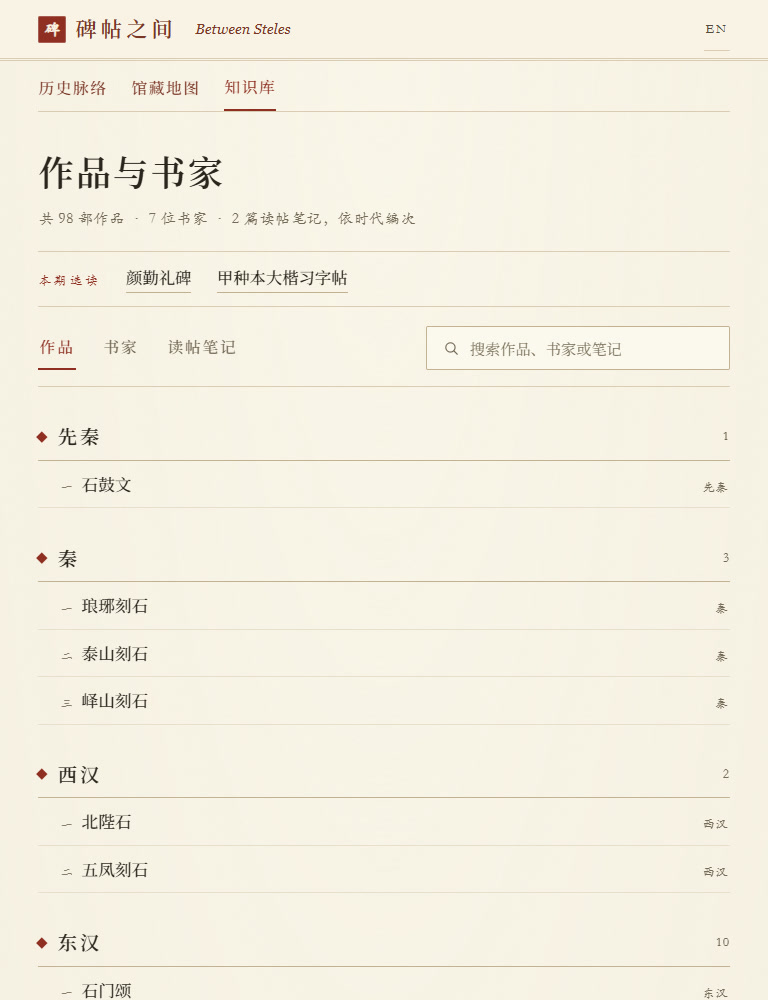
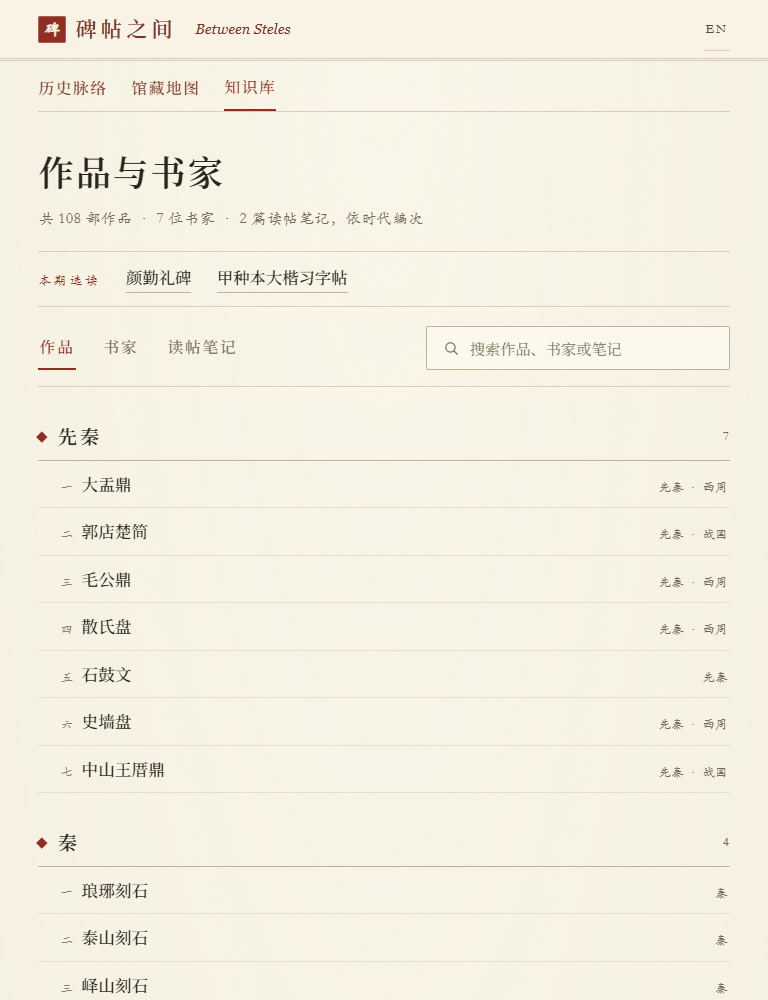
docs: refresh task 044 evidence after merging main

diff --git a/docs/delivery-044.md b/docs/delivery-044.md
@@ -17,7 +17,8 @@
 
 - Masthead height 61.375 px and section nav height 50.531 px on all three entries at 1440; both start at the same y.
 - Active labels: 知识库, 历史脉络, 馆藏地图.
-- A timeline card at 1440: 187.19 × 86.39 px, text `石鼓文`.
+- The timeline now renders 108 cards; the first is 大盂鼎 after the bronze and slip records merged. The library lede reports 108 works.
+- A timeline card at 1440: 187.19 × 86.39 px, text `石鼓文` before the merge and the same slip size for `大盂鼎` after it.
 - Two river frames 1.2 s apart differ; with reduced motion the same two frames are byte-identical.
 - No page errors or horizontal overflow at 1440 / 768 / 390; English labels and cards render with the shared nav.
 
@@ -27,7 +28,7 @@
 | --- | --- |
 | `npm.cmd run typecheck` | Passed |
 | `npx.cmd vitest run tests/atlas-timeline.test.tsx tests/library.test.tsx` | Passed: 2 files / 11 tests |
-| `npm.cmd run check` | Passed: interface current; data 0 errors / 38 known warnings; 99 catalogue pages current; isolation and reproducibility (518 files); board 43 rows; 18 test files / 156 tests; ZIP 523 files; preview build succeeded |
+| `npm.cmd run check` | Passed after merging task 043: interface current; data 0 errors / 38 known warnings; 109 catalogue pages current; isolation and reproducibility (566 source files); board 44 rows; 18 test files / 156 tests; ZIP 571 files; preview build succeeded. The local ZIP revision was unrecorded during the merge; the PR check records it. |
 | Browser checks | Passed at 390 / 768 / 1440, English locale and reduced motion; no page errors or horizontal overflow |
 
 ## Evidence
